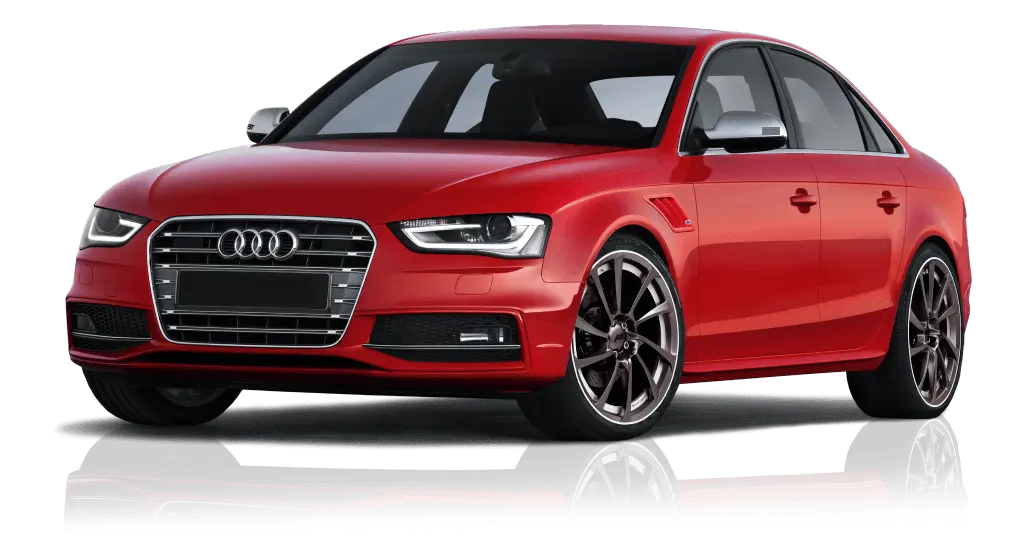
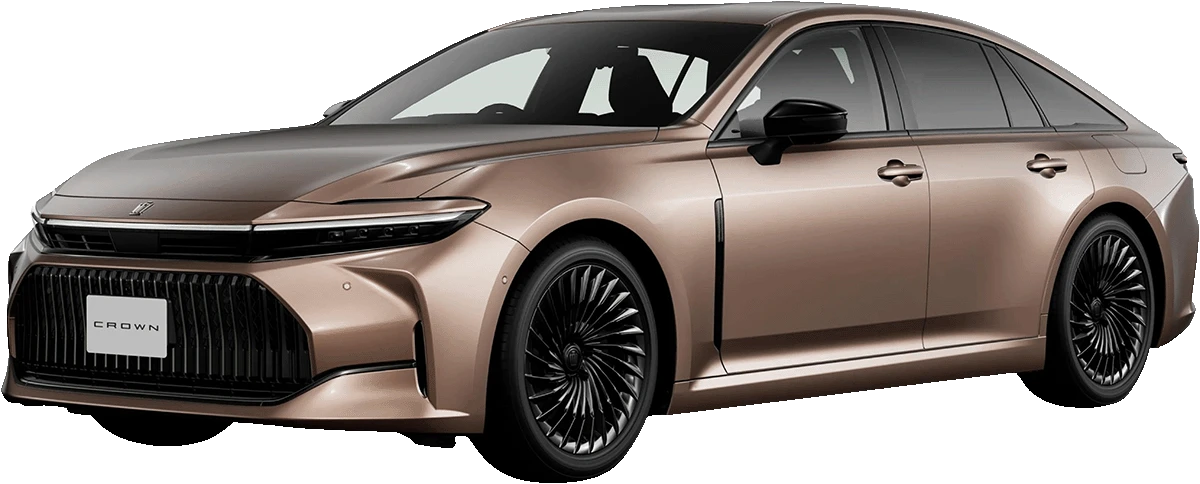
change hero image

diff --git a/index.html b/index.html
@@ -18,17 +18,17 @@
 
 
     <!-- Link of CSS files -->
-    <link rel="stylesheet" href="assets/css/bootstrap.min.css?cache-bust-version=1.0">
-    <link rel="stylesheet" href="assets/css/flaticon_motoz.css?cache-bust-version=1.0">
-    <link rel="stylesheet" href="assets/css/remixicon.css?cache-bust-version=1.0">
-    <link rel="stylesheet" href="assets/css/owl.carousel.min.css?cache-bust-version=1.0">
-    <link rel="stylesheet" href="assets/css/odometer.min.css?cache-bust-version=1.0">
-    <link rel="stylesheet" href="assets/css/aos.css?cache-bust-version=1.0">
-    <link rel="stylesheet" href="assets/css/header.css?cache-bust-version=1.0">
-    <link rel="stylesheet" href="assets/css/style.css?cache-bust-version=1.0">
-    <link rel="stylesheet" href="assets/css/footer.css?cache-bust-version=1.0">
-    <link rel="stylesheet" href="assets/css/responsive.css?cache-bust-version=1.0">
-    <link rel="stylesheet" href="assets/css/dark-theme.css?cache-bust-version=1.0">
+    <link rel="stylesheet" href="assets/css/bootstrap.min.css?cache-bust-version=1.1">
+    <link rel="stylesheet" href="assets/css/flaticon_motoz.css?cache-bust-version=1.1">
+    <link rel="stylesheet" href="assets/css/remixicon.css?cache-bust-version=1.1">
+    <link rel="stylesheet" href="assets/css/owl.carousel.min.css?cache-bust-version=1.1">
+    <link rel="stylesheet" href="assets/css/odometer.min.css?cache-bust-version=1.1">
+    <link rel="stylesheet" href="assets/css/aos.css?cache-bust-version=1.1">
+    <link rel="stylesheet" href="assets/css/header.css?cache-bust-version=1.1">
+    <link rel="stylesheet" href="assets/css/style.css?cache-bust-version=1.1">
+    <link rel="stylesheet" href="assets/css/footer.css?cache-bust-version=1.1">
+    <link rel="stylesheet" href="assets/css/responsive.css?cache-bust-version=1.1">
+    <link rel="stylesheet" href="assets/css/dark-theme.css?cache-bust-version=1.1">
 
     <title>Hridoy International – Reliable Cars & Auto Services</title>
     <link rel="icon" href="assets/img/favicon.ico">
@@ -218,6 +218,21 @@
                                 class="hero-feature-border">
                             <div class="hero-feature-item">
                                 <div class="hero-feature-icon">
+                                    <img src="assets/img/partners/partner-5_1.webp" alt="Image">
+                                </div>
+                                <div class="hero-feature-info">
+                                    <ul class="ratings list-style">
+                                        <li><i class="ri-star-fill"></i></li>
+                                        <li><i class="ri-star-fill"></i></li>
+                                        <li><i class="ri-star-fill"></i></li>
+                                        <li><i class="ri-star-fill"></i></li>
+                                        <li><i class="ri-star-fill"></i></li>
+                                    </ul>
+                                    <h4>Toyota Crown</h4>
+                                </div>
+                            </div>
+                            <div class="hero-feature-item">
+                                <div class="hero-feature-icon">
                                     <img src="assets/img/partners/partner-1.webp" alt="Image">
                                 </div>
                                 <div class="hero-feature-info">
@@ -233,7 +248,7 @@
                             </div>
                             <div class="hero-feature-item">
                                 <div class="hero-feature-icon">
-                                    <img src="assets/img/partners/partner-10.webp" alt="Image">
+                                    <img src="assets/img/partners/partner-3.webp" alt="Image">
                                 </div>
                                 <div class="hero-feature-info">
                                     <ul class="ratings list-style">
@@ -244,21 +259,6 @@
                                         <li><i class="ri-star-fill"></i></li>
                                     </ul>
                                     <h4>Subaru Impreza</h4>
-                                </div>
-                            </div>
-                            <div class="hero-feature-item">
-                                <div class="hero-feature-icon">
-                                    <img src="assets/img/partners/partner-5.webp" alt="Image">
-                                </div>
-                                <div class="hero-feature-info">
-                                    <ul class="ratings list-style">
-                                        <li><i class="ri-star-fill"></i></li>
-                                        <li><i class="ri-star-fill"></i></li>
-                                        <li><i class="ri-star-fill"></i></li>
-                                        <li><i class="ri-star-fill"></i></li>
-                                        <li><i class="ri-star-fill"></i></li>
-                                    </ul>
-                                    <h4>Audi A4</h4>
                                 </div>
                             </div>
                         </div>
@@ -327,7 +327,7 @@
     <!-- Counter Section End -->
 
     <!-- Product Section Start -->
-    <div id="product-section" class="product-wrap pb-70">
+    <!-- <div id="product-section" class="product-wrap pb-70">
         <div class="container">
             <div class="row mb-30 align-items-end">
                 <div class="col-md-9">
@@ -493,7 +493,7 @@
                 </div>
             </div>
         </div>
-    </div>
+    </div> -->
     <!-- Product Section End -->
 
     <!-- About Section Start -->
@@ -646,7 +646,7 @@
                     <img src="assets/img/partners/partner-4.webp" alt="Image">
                 </div>
                 <div class="partner-logo">
-                    <img src="assets/img/partners/partner-5.webp" alt="Image">
+                    <img src="assets/img/partners/partner-5_1.webp" alt="Image">
                 </div>
                 <div class="partner-logo">
                     <img src="assets/img/partners/partner-6.webp" alt="Image">
@@ -1460,18 +1460,18 @@
 
     <!-- Link of JS files -->
 
-    <script src="assets/js/jquery.min.js?cache-bust-version=1.0"></script>
-    <script src="assets/js/bootstrap.bundle.min.js?cache-bust-version=1.0"></script>
-    <script src="assets/js/form-validator.min.js?cache-bust-version=1.0"></script>
-    <script src="assets/js/contact-form-script.js?cache-bust-version=1.0"></script>
-    <script src="assets/js/aos.js?cache-bust-version=1.0"></script>
+    <script src="assets/js/jquery.min.js?cache-bust-version=1.1"></script>
+    <script src="assets/js/bootstrap.bundle.min.js?cache-bust-version=1.1"></script>
+    <script src="assets/js/form-validator.min.js?cache-bust-version=1.1"></script>
+    <script src="assets/js/contact-form-script.js?cache-bust-version=1.1"></script>
+    <script src="assets/js/aos.js?cache-bust-version=1.1"></script>
     <script type="module" src='https://cdn.jsdelivr.net/npm/ionicons@8.0.13/dist/ionicons/ionicons.esm.min.js'></script>
-    <script src="assets/js/owl.carousel.min.js?cache-bust-version=1.0"></script>
-    <script src="assets/js/jquery.appear.js?cache-bust-version=1.0"></script>
-    <script src="assets/js/odometer.min.js?cache-bust-version=1.0"></script>
-    <script src="assets/js/fslightbox.js?cache-bust-version=1.0"></script>
-    <script src="assets/js/tweenmax.min.js?cache-bust-version=1.0"></script>
-    <script src="assets/js/main.js?cache-bust-version=1.0"></script>
+    <script src="assets/js/owl.carousel.min.js?cache-bust-version=1.1"></script>
+    <script src="assets/js/jquery.appear.js?cache-bust-version=1.1"></script>
+    <script src="assets/js/odometer.min.js?cache-bust-version=1.1"></script>
+    <script src="assets/js/fslightbox.js?cache-bust-version=1.1"></script>
+    <script src="assets/js/tweenmax.min.js?cache-bust-version=1.1"></script>
+    <script src="assets/js/main.js?cache-bust-version=1.1"></script>
 </body>
 
 

diff --git a/about.html b/about.html
@@ -14,17 +14,17 @@
 
 
     <!-- Link of CSS files -->
-    <link rel="stylesheet" href="assets/css/bootstrap.min.css?cache-bust-version=1.0">
-    <link rel="stylesheet" href="assets/css/flaticon_motoz.css?cache-bust-version=1.0">
-    <link rel="stylesheet" href="assets/css/remixicon.css?cache-bust-version=1.0">
-    <link rel="stylesheet" href="assets/css/owl.carousel.min.css?cache-bust-version=1.0">
-    <link rel="stylesheet" href="assets/css/odometer.min.css?cache-bust-version=1.0">
-    <link rel="stylesheet" href="assets/css/aos.css?cache-bust-version=1.0">
-    <link rel="stylesheet" href="assets/css/header.css?cache-bust-version=1.0">
-    <link rel="stylesheet" href="assets/css/style.css?cache-bust-version=1.0">
-    <link rel="stylesheet" href="assets/css/footer.css?cache-bust-version=1.0">
-    <link rel="stylesheet" href="assets/css/responsive.css?cache-bust-version=1.0">
-    <link rel="stylesheet" href="assets/css/dark-theme.css?cache-bust-version=1.0">
+    <link rel="stylesheet" href="assets/css/bootstrap.min.css?cache-bust-version=1.1">
+    <link rel="stylesheet" href="assets/css/flaticon_motoz.css?cache-bust-version=1.1">
+    <link rel="stylesheet" href="assets/css/remixicon.css?cache-bust-version=1.1">
+    <link rel="stylesheet" href="assets/css/owl.carousel.min.css?cache-bust-version=1.1">
+    <link rel="stylesheet" href="assets/css/odometer.min.css?cache-bust-version=1.1">
+    <link rel="stylesheet" href="assets/css/aos.css?cache-bust-version=1.1">
+    <link rel="stylesheet" href="assets/css/header.css?cache-bust-version=1.1">
+    <link rel="stylesheet" href="assets/css/style.css?cache-bust-version=1.1">
+    <link rel="stylesheet" href="assets/css/footer.css?cache-bust-version=1.1">
+    <link rel="stylesheet" href="assets/css/responsive.css?cache-bust-version=1.1">
+    <link rel="stylesheet" href="assets/css/dark-theme.css?cache-bust-version=1.1">
 
     <title>Hridoy International – Reliable Cars & Auto Services</title>
     <link rel="icon" href="assets/img/favicon.ico">
@@ -357,7 +357,7 @@
                         <h3><a href="javascript:void(0)">Toyota</a></h3>
                         <ul class="brand-metainfo list-style">
                             <li><a href="javascript:void(0)">Prius <i class="flaticon-next"></i></a></li>
-                            <li><a href="javascript:void(0)">Land Cruiser <i class="flaticon-next"></i></a></li>
+                            <li><a href="javascript:void(0)">Crown <i class="flaticon-next"></i></a></li>
                         </ul>
                         <a href="javascript:void(0)" class="btn-one">Browse All</a>
                     </div>
@@ -847,18 +847,18 @@
 
     <!-- Link of JS files -->
 
-    <script src="assets/js/jquery.min.js?cache-bust-version=1.0"></script>
-    <script src="assets/js/bootstrap.bundle.min.js?cache-bust-version=1.0"></script>
-    <script src="assets/js/form-validator.min.js?cache-bust-version=1.0"></script>
-    <script src="assets/js/contact-form-script.js?cache-bust-version=1.0"></script>
-    <script src="assets/js/aos.js?cache-bust-version=1.0"></script>
+    <script src="assets/js/jquery.min.js?cache-bust-version=1.1"></script>
+    <script src="assets/js/bootstrap.bundle.min.js?cache-bust-version=1.1"></script>
+    <script src="assets/js/form-validator.min.js?cache-bust-version=1.1"></script>
+    <script src="assets/js/contact-form-script.js?cache-bust-version=1.1"></script>
+    <script src="assets/js/aos.js?cache-bust-version=1.1"></script>
     <script type="module" src='https://cdn.jsdelivr.net/npm/ionicons@8.0.13/dist/ionicons/ionicons.esm.min.js'></script>
-    <script src="assets/js/owl.carousel.min.js?cache-bust-version=1.0"></script>
-    <script src="assets/js/jquery.appear.js?cache-bust-version=1.0"></script>
-    <script src="assets/js/odometer.min.js?cache-bust-version=1.0"></script>
-    <script src="assets/js/fslightbox.js?cache-bust-version=1.0"></script>
-    <script src="assets/js/tweenmax.min.js?cache-bust-version=1.0"></script>
-    <script src="assets/js/main.js?cache-bust-version=1.0"></script>
+    <script src="assets/js/owl.carousel.min.js?cache-bust-version=1.1"></script>
+    <script src="assets/js/jquery.appear.js?cache-bust-version=1.1"></script>
+    <script src="assets/js/odometer.min.js?cache-bust-version=1.1"></script>
+    <script src="assets/js/fslightbox.js?cache-bust-version=1.1"></script>
+    <script src="assets/js/tweenmax.min.js?cache-bust-version=1.1"></script>
+    <script src="assets/js/main.js?cache-bust-version=1.1"></script>
 
 </body>
 

diff --git a/404.html b/404.html
@@ -14,17 +14,17 @@
 
 
     <!-- Link of CSS files -->
-    <link rel="stylesheet" href="assets/css/bootstrap.min.css?cache-bust-version=1.0">
-    <link rel="stylesheet" href="assets/css/flaticon_motoz.css?cache-bust-version=1.0">
-    <link rel="stylesheet" href="assets/css/remixicon.css?cache-bust-version=1.0">
-    <link rel="stylesheet" href="assets/css/owl.carousel.min.css?cache-bust-version=1.0">
-    <link rel="stylesheet" href="assets/css/odometer.min.css?cache-bust-version=1.0">
-    <link rel="stylesheet" href="assets/css/aos.css?cache-bust-version=1.0">
-    <link rel="stylesheet" href="assets/css/header.css?cache-bust-version=1.0">
-    <link rel="stylesheet" href="assets/css/style.css?cache-bust-version=1.0">
-    <link rel="stylesheet" href="assets/css/footer.css?cache-bust-version=1.0">
-    <link rel="stylesheet" href="assets/css/responsive.css?cache-bust-version=1.0">
-    <link rel="stylesheet" href="assets/css/dark-theme.css?cache-bust-version=1.0">
+    <link rel="stylesheet" href="assets/css/bootstrap.min.css?cache-bust-version=1.1">
+    <link rel="stylesheet" href="assets/css/flaticon_motoz.css?cache-bust-version=1.1">
+    <link rel="stylesheet" href="assets/css/remixicon.css?cache-bust-version=1.1">
+    <link rel="stylesheet" href="assets/css/owl.carousel.min.css?cache-bust-version=1.1">
+    <link rel="stylesheet" href="assets/css/odometer.min.css?cache-bust-version=1.1">
+    <link rel="stylesheet" href="assets/css/aos.css?cache-bust-version=1.1">
+    <link rel="stylesheet" href="assets/css/header.css?cache-bust-version=1.1">
+    <link rel="stylesheet" href="assets/css/style.css?cache-bust-version=1.1">
+    <link rel="stylesheet" href="assets/css/footer.css?cache-bust-version=1.1">
+    <link rel="stylesheet" href="assets/css/responsive.css?cache-bust-version=1.1">
+    <link rel="stylesheet" href="assets/css/dark-theme.css?cache-bust-version=1.1">
 
     <title>Hridoy International – Reliable Cars & Auto Services</title>
     <link rel="icon" href="assets/img/favicon.ico">
@@ -362,18 +362,18 @@
 
     <!-- Link of JS files -->
 
-    <script src="assets/js/jquery.min.js?cache-bust-version=1.0"></script>
-    <script src="assets/js/bootstrap.bundle.min.js?cache-bust-version=1.0"></script>
-    <script src="assets/js/form-validator.min.js?cache-bust-version=1.0"></script>
-    <script src="assets/js/contact-form-script.js?cache-bust-version=1.0"></script>
-    <script src="assets/js/aos.js?cache-bust-version=1.0"></script>
+    <script src="assets/js/jquery.min.js?cache-bust-version=1.1"></script>
+    <script src="assets/js/bootstrap.bundle.min.js?cache-bust-version=1.1"></script>
+    <script src="assets/js/form-validator.min.js?cache-bust-version=1.1"></script>
+    <script src="assets/js/contact-form-script.js?cache-bust-version=1.1"></script>
+    <script src="assets/js/aos.js?cache-bust-version=1.1"></script>
     <script type="module" src='https://cdn.jsdelivr.net/npm/ionicons@8.0.13/dist/ionicons/ionicons.esm.min.js'></script>
-    <script src="assets/js/owl.carousel.min.js?cache-bust-version=1.0"></script>
-    <script src="assets/js/jquery.appear.js?cache-bust-version=1.0"></script>
-    <script src="assets/js/odometer.min.js?cache-bust-version=1.0"></script>
-    <script src="assets/js/fslightbox.js?cache-bust-version=1.0"></script>
-    <script src="assets/js/tweenmax.min.js?cache-bust-version=1.0"></script>
-    <script src="assets/js/main.js?cache-bust-version=1.0"></script>
+    <script src="assets/js/owl.carousel.min.js?cache-bust-version=1.1"></script>
+    <script src="assets/js/jquery.appear.js?cache-bust-version=1.1"></script>
+    <script src="assets/js/odometer.min.js?cache-bust-version=1.1"></script>
+    <script src="assets/js/fslightbox.js?cache-bust-version=1.1"></script>
+    <script src="assets/js/tweenmax.min.js?cache-bust-version=1.1"></script>
+    <script src="assets/js/main.js?cache-bust-version=1.1"></script>
 </body>
 
 

diff --git a/services.html b/services.html
@@ -14,17 +14,17 @@
 
 
     <!-- Link of CSS files -->
-    <link rel="stylesheet" href="assets/css/bootstrap.min.css?cache-bust-version=1.0">
-    <link rel="stylesheet" href="assets/css/flaticon_motoz.css?cache-bust-version=1.0">
-    <link rel="stylesheet" href="assets/css/remixicon.css?cache-bust-version=1.0">
-    <link rel="stylesheet" href="assets/css/owl.carousel.min.css?cache-bust-version=1.0">
-    <link rel="stylesheet" href="assets/css/odometer.min.css?cache-bust-version=1.0">
-    <link rel="stylesheet" href="assets/css/aos.css?cache-bust-version=1.0">
-    <link rel="stylesheet" href="assets/css/header.css?cache-bust-version=1.0">
-    <link rel="stylesheet" href="assets/css/style.css?cache-bust-version=1.0">
-    <link rel="stylesheet" href="assets/css/footer.css?cache-bust-version=1.0">
-    <link rel="stylesheet" href="assets/css/responsive.css?cache-bust-version=1.0">
-    <link rel="stylesheet" href="assets/css/dark-theme.css?cache-bust-version=1.0">
+    <link rel="stylesheet" href="assets/css/bootstrap.min.css?cache-bust-version=1.1">
+    <link rel="stylesheet" href="assets/css/flaticon_motoz.css?cache-bust-version=1.1">
+    <link rel="stylesheet" href="assets/css/remixicon.css?cache-bust-version=1.1">
+    <link rel="stylesheet" href="assets/css/owl.carousel.min.css?cache-bust-version=1.1">
+    <link rel="stylesheet" href="assets/css/odometer.min.css?cache-bust-version=1.1">
+    <link rel="stylesheet" href="assets/css/aos.css?cache-bust-version=1.1">
+    <link rel="stylesheet" href="assets/css/header.css?cache-bust-version=1.1">
+    <link rel="stylesheet" href="assets/css/style.css?cache-bust-version=1.1">
+    <link rel="stylesheet" href="assets/css/footer.css?cache-bust-version=1.1">
+    <link rel="stylesheet" href="assets/css/responsive.css?cache-bust-version=1.1">
+    <link rel="stylesheet" href="assets/css/dark-theme.css?cache-bust-version=1.1">
 
     <title>Hridoy International – Reliable Cars & Auto Services</title>
     <link rel="icon" href="assets/img/favicon.ico">
@@ -494,18 +494,18 @@
 
     <!-- Link of JS files -->
 
-    <script src="assets/js/jquery.min.js?cache-bust-version=1.0"></script>
-    <script src="assets/js/bootstrap.bundle.min.js?cache-bust-version=1.0"></script>
-    <script src="assets/js/form-validator.min.js?cache-bust-version=1.0"></script>
-    <script src="assets/js/contact-form-script.js?cache-bust-version=1.0"></script>
-    <script src="assets/js/aos.js?cache-bust-version=1.0"></script>
+    <script src="assets/js/jquery.min.js?cache-bust-version=1.1"></script>
+    <script src="assets/js/bootstrap.bundle.min.js?cache-bust-version=1.1"></script>
+    <script src="assets/js/form-validator.min.js?cache-bust-version=1.1"></script>
+    <script src="assets/js/contact-form-script.js?cache-bust-version=1.1"></script>
+    <script src="assets/js/aos.js?cache-bust-version=1.1"></script>
     <script type="module" src='https://cdn.jsdelivr.net/npm/ionicons@8.0.13/dist/ionicons/ionicons.esm.min.js'></script>
-    <script src="assets/js/owl.carousel.min.js?cache-bust-version=1.0"></script>
-    <script src="assets/js/jquery.appear.js?cache-bust-version=1.0"></script>
-    <script src="assets/js/odometer.min.js?cache-bust-version=1.0"></script>
-    <script src="assets/js/fslightbox.js?cache-bust-version=1.0"></script>
-    <script src="assets/js/tweenmax.min.js?cache-bust-version=1.0"></script>
-    <script src="assets/js/main.js?cache-bust-version=1.0"></script>
+    <script src="assets/js/owl.carousel.min.js?cache-bust-version=1.1"></script>
+    <script src="assets/js/jquery.appear.js?cache-bust-version=1.1"></script>
+    <script src="assets/js/odometer.min.js?cache-bust-version=1.1"></script>
+    <script src="assets/js/fslightbox.js?cache-bust-version=1.1"></script>
+    <script src="assets/js/tweenmax.min.js?cache-bust-version=1.1"></script>
+    <script src="assets/js/main.js?cache-bust-version=1.1"></script>
 </body>
 
 

diff --git a/contact.html b/contact.html
@@ -484,18 +484,18 @@
 
     <!-- Link of JS files -->
 
-    <script src="assets/js/jquery.min.js?cache-bust-version=1.0"></script>
-    <script src="assets/js/bootstrap.bundle.min.js?cache-bust-version=1.0"></script>
-    <script src="assets/js/form-validator.min.js?cache-bust-version=1.0"></script>
-    <script src="assets/js/contact-form-script.js?cache-bust-version=1.0"></script>
-    <script src="assets/js/aos.js?cache-bust-version=1.0"></script>
+    <script src="assets/js/jquery.min.js?cache-bust-version=1.1"></script>
+    <script src="assets/js/bootstrap.bundle.min.js?cache-bust-version=1.1"></script>
+    <script src="assets/js/form-validator.min.js?cache-bust-version=1.1"></script>
+    <script src="assets/js/contact-form-script.js?cache-bust-version=1.1"></script>
+    <script src="assets/js/aos.js?cache-bust-version=1.1"></script>
     <script type="module" src='https://cdn.jsdelivr.net/npm/ionicons@8.0.13/dist/ionicons/ionicons.esm.min.js'></script>
-    <script src="assets/js/owl.carousel.min.js?cache-bust-version=1.0"></script>
-    <script src="assets/js/jquery.appear.js?cache-bust-version=1.0"></script>
-    <script src="assets/js/odometer.min.js?cache-bust-version=1.0"></script>
-    <script src="assets/js/fslightbox.js?cache-bust-version=1.0"></script>
-    <script src="assets/js/tweenmax.min.js?cache-bust-version=1.0"></script>
-    <script src="assets/js/main.js?cache-bust-version=1.0"></script>
+    <script src="assets/js/owl.carousel.min.js?cache-bust-version=1.1"></script>
+    <script src="assets/js/jquery.appear.js?cache-bust-version=1.1"></script>
+    <script src="assets/js/odometer.min.js?cache-bust-version=1.1"></script>
+    <script src="assets/js/fslightbox.js?cache-bust-version=1.1"></script>
+    <script src="assets/js/tweenmax.min.js?cache-bust-version=1.1"></script>
+    <script src="assets/js/main.js?cache-bust-version=1.1"></script>
 </body>
 
 

diff --git a/assets/css/style.css b/assets/css/style.css
@@ -1989,7 +1989,7 @@ input[type="reset"]:visited,
 .hero-three .hero-img-wrap .hero-feature-box .hero-feature-item .hero-feature-icon {
   width: 80px;
   height: 80px;
-  padding: 5px;
+  padding: 10px;
   border-radius: 50%;
   background-color: var(--whiteColor);
   display: flex;
